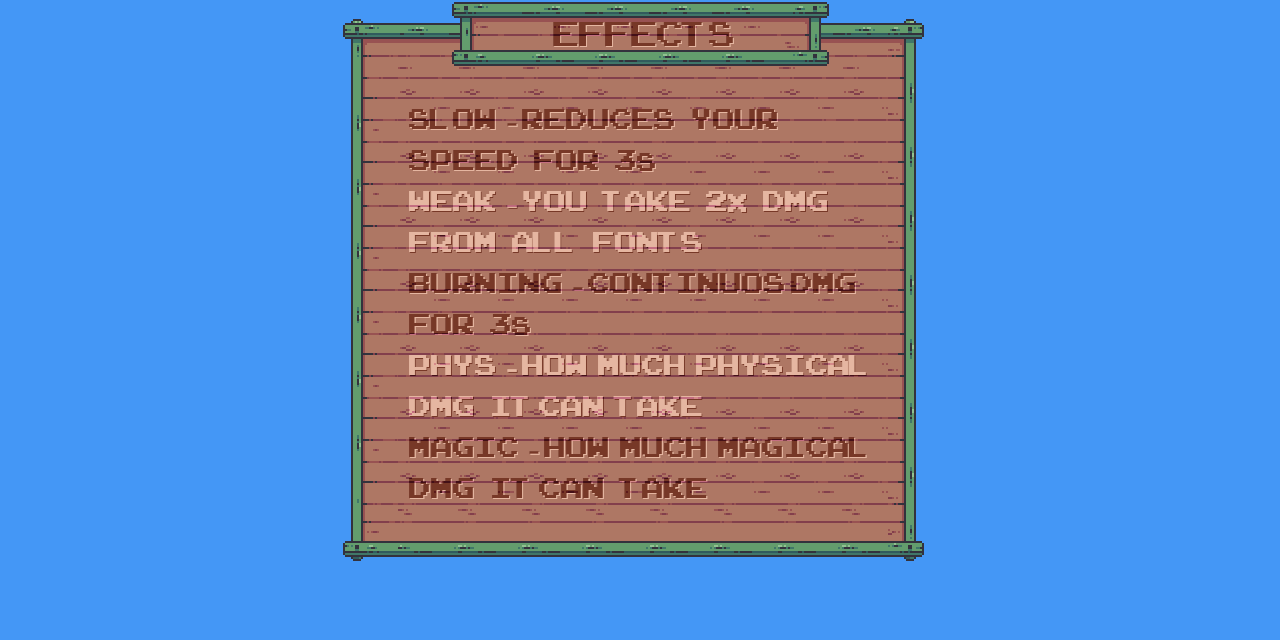
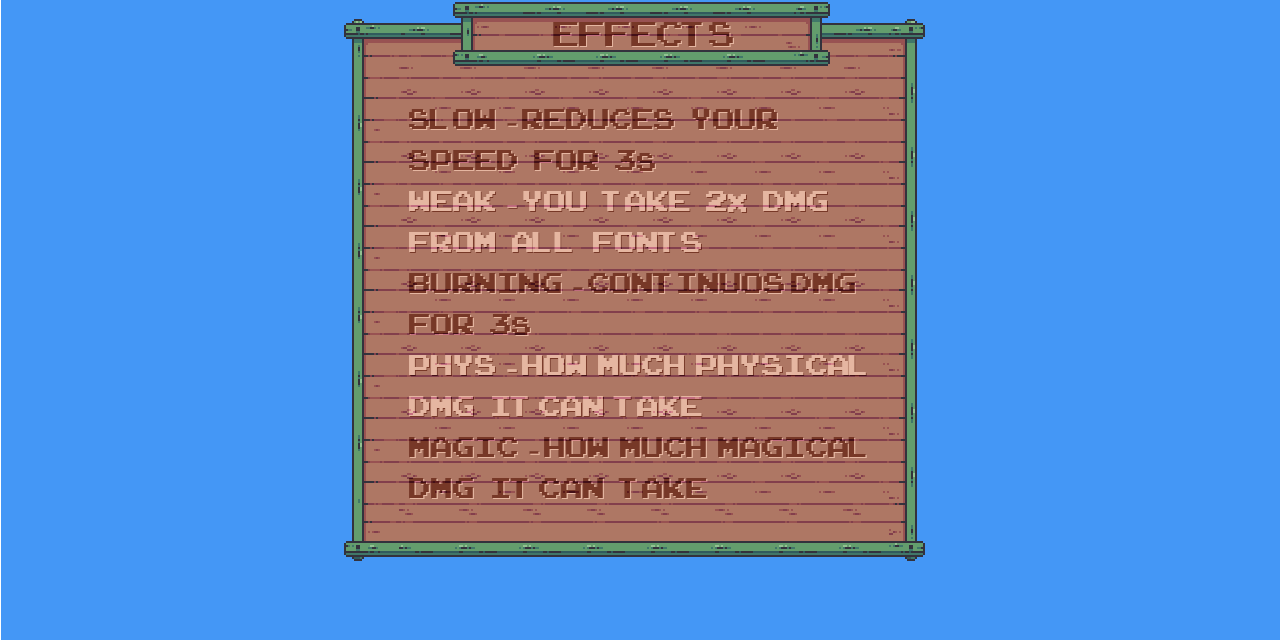
Completada a UI e adicionada as musicas no jogo

Changed region(s): [[0.6875, 0.0625, 0.7188, 0.8438], [0.625, 0.0312, 0.6562, 0.0938], [0.3438, 0.0312, 0.375, 0.0938]]

diff --git a/The God's Puppet/TheGodsPuppet.cpp b/The God's Puppet/TheGodsPuppet.cpp
@@ -3,12 +3,44 @@
 #include "Menu.h"
 
 Audio* TheGodsPuppet::audio = nullptr;
+Audio* TheGodsPuppet::inimigosAudio = nullptr;
 bool TheGodsPuppet::viewBBox = false;
 Game* TheGodsPuppet::level = nullptr;
 
 void TheGodsPuppet::Init() {
 	audio = new Audio();
+    inimigosAudio = new Audio();
+
 	audio->Add(BUTTONOVER, "Resources/Sounds/ButtonDown.wav");
+    audio->Add(MENU, "Resources/Sounds/Menu.wav");
+    audio->Add(FORESTAREA, "Resources/Sounds/Areas/ForestArea.wav");
+    audio->Add(SNOWAREA, "Resources/Sounds/Areas/SnowArea.wav");
+    audio->Add(MINEAREA, "Resources/Sounds/Areas/MineArea.wav");
+    audio->Add(SWAMPAREA, "Resources/Sounds/Areas/SwampArea.wav");
+    audio->Add(BLOODAREA, "Resources/Sounds/Areas/bloodRiverArea.wav");
+    audio->Add(BOSSAREA, "Resources/Sounds/Areas/BossArea.wav");
+    audio->Add(BASICATTACK, "Resources/Sounds/Abilities/BasicAttack.wav");
+    audio->Add(BRANG, "Resources/Sounds/Abilities/Boomerang.wav");
+    audio->Add(KBACK, "Resources/Sounds/Abilities/KnockBack.wav");
+    audio->Add(HEAL, "Resources/Sounds/Abilities/Heal.wav");
+    audio->Add(SPEED, "Resources/Sounds/Abilities/SpeedSpell.wav");
+
+    inimigosAudio->Add(DEMON1, "Resources/Sounds/Enemies/Demon/Demon1.wav");
+    inimigosAudio->Add(DEMON2, "Resources/Sounds/Enemies/Demon/Demon2.wav");
+    inimigosAudio->Add(DEMON3, "Resources/Sounds/Enemies/Demon/Demon3.wav");
+    inimigosAudio->Add(GHOST1, "Resources/Sounds/Enemies/Ghost/Ghost1.wav");
+    inimigosAudio->Add(GHOST2, "Resources/Sounds/Enemies/Ghost/Ghost2.wav");
+    inimigosAudio->Add(GOBLIN1, "Resources/Sounds/Enemies/Goblin/Goblin1.wav");
+    inimigosAudio->Add(GOBLIN2, "Resources/Sounds/Enemies/Goblin/Goblin2.wav");
+    inimigosAudio->Add(GOBLIN3, "Resources/Sounds/Enemies/Goblin/Goblin3.wav");
+    inimigosAudio->Add(GOBLIN4, "Resources/Sounds/Enemies/Goblin/Goblin4.wav");
+    inimigosAudio->Add(GOBLIN5, "Resources/Sounds/Enemies/Goblin/Goblin5.wav");
+    inimigosAudio->Add(ZOMBIE1, "Resources/Sounds/Enemies/Zombie/Zombie1.wav");
+    inimigosAudio->Add(ZOMBIE2, "Resources/Sounds/Enemies/Zombie/Zombie2.wav");
+    inimigosAudio->Add(ZOMBIE3, "Resources/Sounds/Enemies/Zombie/Zombie3.wav");
+    inimigosAudio->Add(DEMONATTACK, "Resources/Sounds/Enemies/DemonAttack.wav");
+    inimigosAudio->Add(ICEZOMBIEATTACK, "Resources/Sounds/Enemies/IceZombieAttack.wav");
+    inimigosAudio->Add(MELEEATTACK, "Resources/Sounds/Enemies/MeleeAttack.wav");
 
 	viewBBox = false;
 	level = new Menu();
@@ -27,6 +59,8 @@ void TheGodsPuppet::Draw() {
 void TheGodsPuppet::Finalize() {
 	level->Finalize();
 	delete level;
+    delete audio;
+    delete inimigosAudio;
 
 }
 

diff --git a/The God's Puppet/Menu.cpp b/The God's Puppet/Menu.cpp
@@ -1,16 +1,17 @@
-#include "Engine.h"
 #include "TheGodsPuppet.h"
 #include "Principal.h"
+#include "Controls.h"
+#include "Effects.h"
 #include "Menu.h"
 
 void Menu::Init() {
-	//background = new Sprite("Resources/UI/Menu.png");
+	background = new Sprite("Resources/UI/Screens/Menu.png");
 
 	mouse = new Mouse();
-	play = new Buttons(window->CenterX(), 320.0f, PLAY);
-	controls = new Buttons(window->CenterX(), 380.0f, CONTROLS);
-	effects = new Buttons(window->CenterX(), 440.0f, EFFECTS);
-	quit = new Buttons(window->CenterX(), 500.0f, QUIT);
+	play = new Buttons(window->CenterX(), 360.0f, PLAY);
+	controls = new Buttons(window->CenterX(), 420.0f, CONTROLS);
+	effects = new Buttons(window->CenterX(), 480.0f, EFFECTS);
+	quit = new Buttons(window->CenterX(), 540.0f, QUIT);
 }
 
 void Menu::Update() {
@@ -45,10 +46,10 @@ void Menu::Update() {
 	if (play->MouseOver() && mouse->Clicked()) {
 		TheGodsPuppet::NextLevel<Principal>();
 	} else if (controls->MouseOver() && mouse->Clicked()) {
-		//TheGodsPuppet::NextLevel<Principal>();
+		TheGodsPuppet::NextLevel<Controls>();
 	}
 	else if (effects->MouseOver() && mouse->Clicked()) {
-		//TheGodsPuppet::NextLevel<Principal>();
+		TheGodsPuppet::NextLevel<Effects>();
 	}
 	else if (quit->MouseOver() && mouse->Clicked()) {
 		window->Close();
@@ -63,28 +64,19 @@ void Menu::Update() {
 }
 
 void Menu::Draw() {
-
+	background->Draw(window->CenterX(), window->CenterY(), Layer::BACK);
 	play->Draw();
 	controls->Draw();
 	effects->Draw();
 	quit->Draw();
-	/*Engine::renderer->BeginPixels();
-
-	ulong magenta = (255 << 24) + (255 << 16) + (0 << 8) + 255;
-
-	
-	Engine::renderer->Draw(mouse->BBox(), magenta);
-	
-
-
-	Engine::renderer->EndPixels();*/
 }
 
 void Menu::Finalize() {
 	delete mouse;
 	delete play;
-	delete animacao;
-	delete tileset;
+	delete controls;
+	delete effects;
+	delete quit;
 	delete background;
 }
 

diff --git a/The God's Puppet/TheGodsPuppet.h b/The God's Puppet/TheGodsPuppet.h
@@ -6,7 +6,13 @@
 #include "Font.h"
 #include "Resources.h"
 
-enum Sounds { BUTTONOVER };
+enum Sounds { BUTTONOVER, MENU, FORESTAREA, SNOWAREA, 
+	MINEAREA, SWAMPAREA, BLOODAREA, BOSSAREA, 
+	BASICATTACK, BRANG, KBACK, HEAL, SPEED };
+
+enum Inimigos { DEMON1, DEMON2, DEMON3, GHOST1, GHOST2, 
+				GOBLIN1, GOBLIN2, GOBLIN3, GOBLIN4, GOBLIN5,
+				ZOMBIE1, ZOMBIE2, ZOMBIE3, DEMONATTACK, ICEZOMBIEATTACK, MELEEATTACK};
 
 class TheGodsPuppet : public Game {
 private:
@@ -14,6 +20,8 @@ private:
 public:
 
 	static Audio* audio;
+	static Audio* inimigosAudio;
+
 	static bool viewBBox;
 
 	template<class T>

diff --git a/The God's Puppet/GameOver.h b/The God's Puppet/GameOver.h
@@ -1,18 +1,17 @@
-#ifndef MENU_H
-#define MENU_H
+#ifndef GAMEOVER_H
+#define GAMEOVER_H
 
 #include "Resources.h"
 #include "Mouse.h"
 #include "Buttons.h"
 
-class Menu : public Game {
+class GameOver : public Game {
 private:
 
 	Sprite* background = nullptr;
-	Buttons* play = nullptr;
-	Buttons* controls = nullptr;
-	Buttons* effects = nullptr;
-	Buttons* quit = nullptr;
+	Buttons* continuar = nullptr;
+	Buttons* restart = nullptr;
+	Buttons* back = nullptr;
 	Mouse* mouse = nullptr;
 
 public:
@@ -24,3 +23,4 @@ public:
 
 
 #endif
+

diff --git a/The God's Puppet/Effects.h b/The God's Puppet/Effects.h
@@ -1,14 +1,18 @@
-#ifndef CONTROLS_H
-#define CONTROLS_H
+#ifndef Effects_H
+#define Effects_H
 
 #include "Resources.h"
 #include "Mouse.h"
 #include "Buttons.h"
 
-class Controls : public Game {
+class Effects : public Game {
 private:
-	Sprite* background = nullptr;
+	Sprite* background;
+	Sprite* backgrounds[6];
 	Buttons* back = nullptr;
+	Buttons* arrowR = nullptr;
+	Buttons* arrowL = nullptr;
+	int contagem = 0;
 	Mouse* mouse = nullptr;
 
 public:
@@ -20,4 +24,3 @@ public:
 
 
 #endif
-
